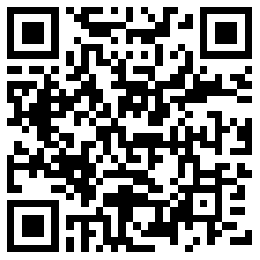
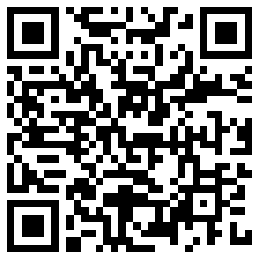
提升jackkknife依赖版本到4.10.29

diff --git a/README.md b/README.md
@@ -6,7 +6,7 @@
 
 扫码下载
 
-| 扫码 or [点击下载](https://23-280676759-gh.circle-artifacts.com/0/apks/release/app-release.apk) |
+| 扫码 or [点击下载](https://35-280676759-gh.circle-artifacts.com/0/apks/release/app-release.apk) |
 | :----------------------------------------------------------: |
 | <img src="/qrcode/qrcode.png" alt="扫码下载体验" width="260px" /> |
 
